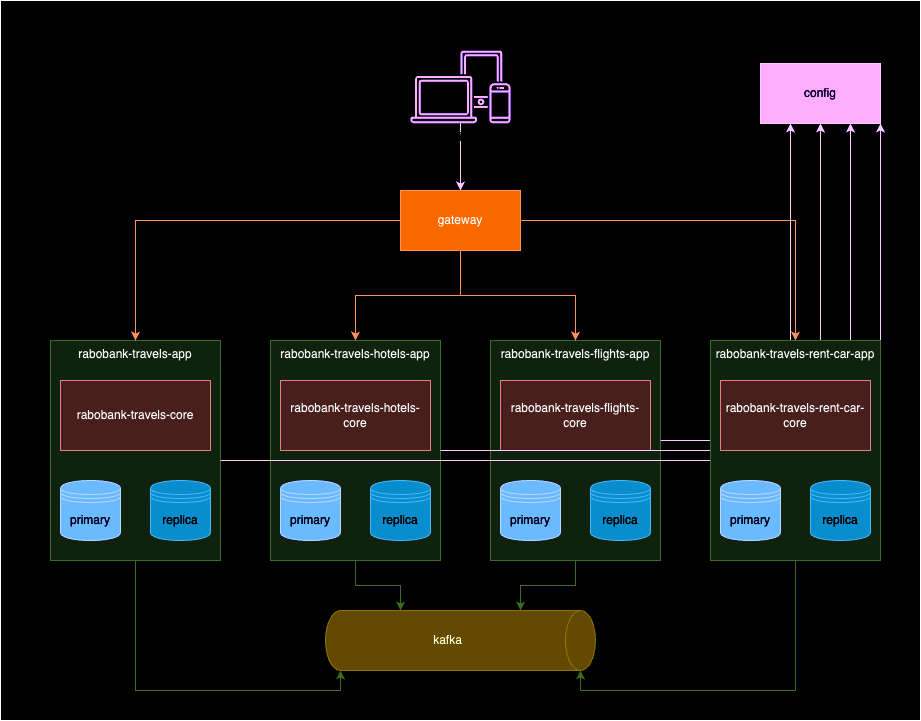
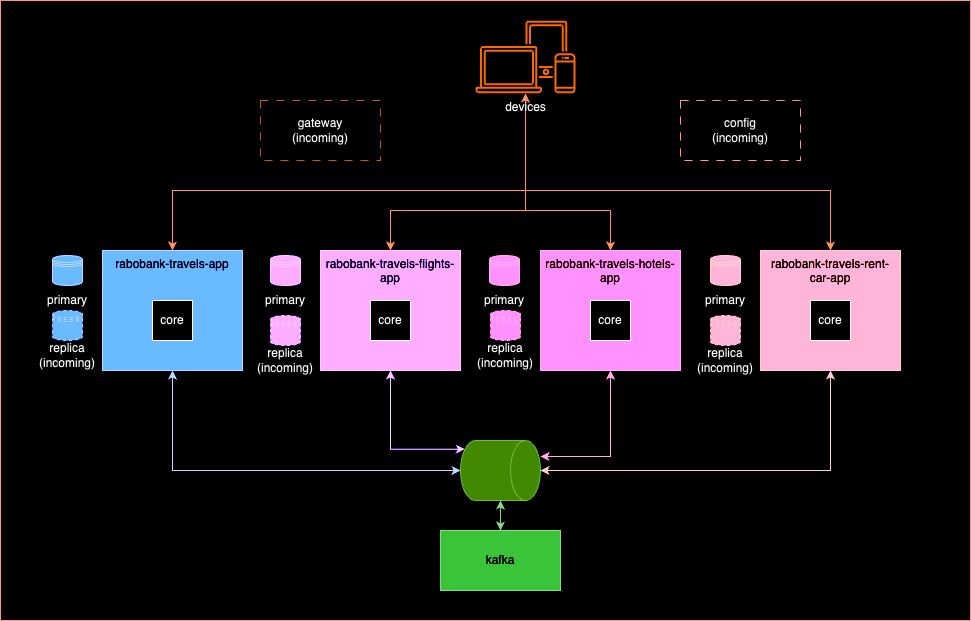
[feat] Write readme file
Add new diagram
Add steps to execute project in IntelliJ.

diff --git a/README.md b/README.md
@@ -5,9 +5,6 @@ This is a project for a test.
 This project is about a travel agency and coverage this technologies:
 
 - Pub/Sub pattern
-- CQRS
-- Circuit Breaker
-- API Proxy
 
 ## Desing
 
@@ -17,9 +14,35 @@ This project is about a travel agency and coverage this technologies:
 
 To start this project it's necessary:
 
+- IntelliJ
 - Java 21+ (microsoft-21: https://learn.microsoft.com/pt-br/java/openjdk/download#openjdk-21)
 - Docker
 - Maven
+
+To start:
+
+1. go to devops dir and execute this command:
+
+```shell
+$ cd {project-dir}/devops
+$ docker-compose up -d
+```
+
+2. then execute all project running Application class
+
+- RabobankTravelsApplication (rabobank-travels-app)
+- RabobankTravelsFlightsApplication (rabobank-travels-flights-app)
+- RabobankTravelsHotelApplication (rabobank-travels-hotels-app)
+- RobobankTravelsRentCarApplication (rabobank-travels-rent-car-app)
+
+3. Import Insomnia requests.
+
+### Next Steps
+
+- CQRS
+- Circuit Breaker
+- API Proxy
+- Cloud Config
 
 ### Docs
 - https://www.baeldung.com/spring-kafka
